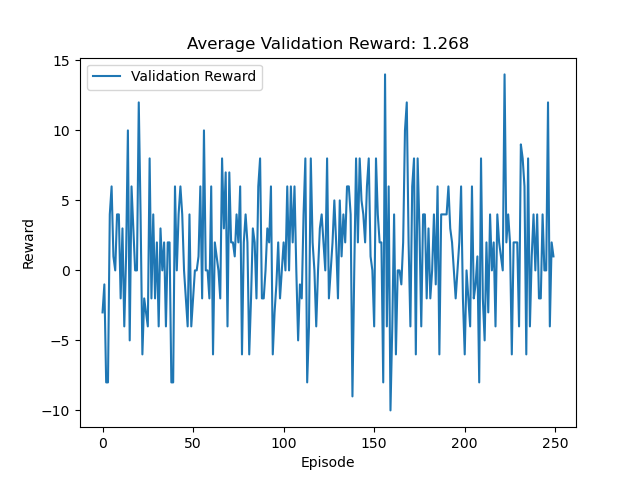
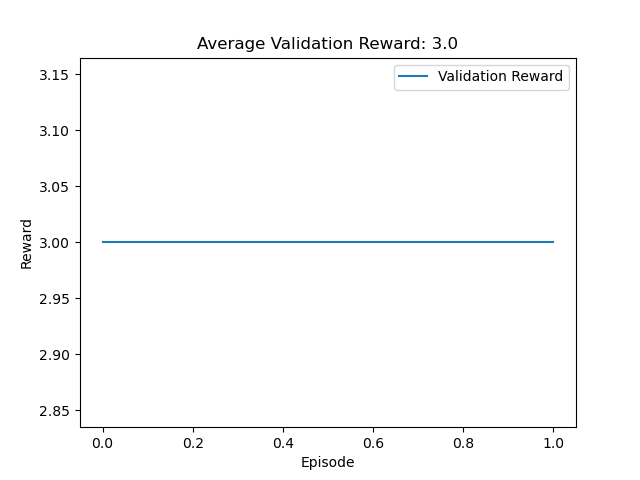
implemented cnn_lstm for deep q model

diff --git a/cnn_lstm_deep_q.py b/cnn_lstm_deep_q.py
@@ -53,7 +53,6 @@ DATA_ROOT = './data/hourly/'
 VALIDATION_SPLIT = .2
 VALIDATION_EPISODES = 2
 
-
 class environment:
 
 
@@ -106,13 +105,15 @@ class environment:
         #reward nothing if price doesn't change
         reward = 0
 
-        price_change_percent = self.current_label
-        print(self.current_label)
+        price_change_percent = self.current_label[-1]
+
         #our reward function: (close - open)/open (this is handled implicitly in the label
 
         #reward buying before price increases
         #Punish when buying before price decreases
         # TODO Current assumption: 0 sell, 1 buy, 2 do nothing
+        #print("Action: ",action)
+        #print("price:",price_change_percent)
         if price_change_percent > 0 and action == 1:
             reward = 1
         if price_change_percent < 0 and action == 1:
@@ -131,17 +132,17 @@ class environment:
 
         done = 0
 
-        #make sure to accomodate bounds of the sequence
-        if(self.cur_time_step+self.sequence_length == self.max_steps):
+        # make sure to accomodate bounds of the sequence
+        if (self.cur_time_step + self.sequence_length == self.max_steps - 1):
             done = 1
 
-        #update to the next time_step
+        # update to the next time_step
         self.cur_time_step += 1
-        #update state information
+        # update state information
         self.state, self.current_label = self.get_state()
 
-        #Stop training at the end of the episode
-        if(self.cur_time_step == (self.offset_start+self.steps_per_ep)):
+        # Stop training at the end of the episode
+        if (self.cur_time_step == (self.offset_start + self.steps_per_ep)):
             done = 1
 
 
@@ -193,7 +194,6 @@ Transition = namedtuple('Transition',
 # https://github.com/pranoyr/cnn-lstm and https://github.com/pranoyr/cnn-lstm/blob/master/models/cnnlstm.py
 
 
-
 class Ensemble(nn.Module):
     #combine all the CNN approximators and NN models
     def __init__(self, cnn1, cnn2, cnn3, cnn4, cnn5, num_classes):
@@ -211,16 +211,16 @@ class Ensemble(nn.Module):
         self.cnn4.train()
         self.cnn5.train()
 
-        self.lstm = nn.LSTM(cnn1.fc.out_features*5, hidden_size=256, num_layers=3)
-        self.fc1 = nn.Linear(256, 128)
-        self.fc2 = nn.Linear(128, num_classes)
+        self.lstm = nn.LSTM(cnn1.fc.out_features*5, hidden_size=256, num_layers=3).to(device)
+        self.fc1 = nn.Linear(256, 128).to(device)
+        self.fc2 = nn.Linear(128, num_classes).to(device)
 
     def forward(self, sequence):
         #this condition handles a batch of states versus a single state containing 5 images
         hidden = None
         for t in range(sequence.size(1)):
             xlist = sequence[:,t,:,:,:,:]#list of 3-dim images at given time step t
-            print(xlist.shape)
+
             x1 = xlist[:,0].to(device)
             x2 = xlist[:,1].to(device)
             x3 = xlist[:,2].to(device)
@@ -235,14 +235,13 @@ class Ensemble(nn.Module):
 
             x = torch.cat((x1,x2,x3,x4,x5),dim=1)
 
-            print(x.shape)
             out, hidden = self.lstm(x.unsqueeze(0), hidden)
 
         x = self.fc1(out[-1, :, :])
         x = F.relu(x)
         x = self.fc2(x)
+        #NOTE because we are using CrossEntropyLoss, we should NOT use softmax here, as it is applied in the loss function
         return x
-
 
 def load_model(encoding_dim,model_path=None):
     model = models.resnet18(pretrained=True)
@@ -296,6 +295,7 @@ policy_net = Ensemble(cnn1, cnn2, cnn3, cnn4, cnn5,num_classes=n_actions).to(dev
 target_net = Ensemble(cnn1, cnn2, cnn3, cnn4, cnn5,num_classes=n_actions).to(device)
 target_net.load_state_dict(policy_net.state_dict())
 target_net.eval()
+
 
 optimizer = optim.RMSprop(policy_net.parameters())
 memory = ReplayMemory(REPLAY_MEMORY)
@@ -382,7 +382,7 @@ def optimize_model():
     # columns of actions taken. These are the actions which would've been taken
     # for each batch state according to policy_net
 
-    state_action_values = policy_net(state_batch).gather(1, action_batch)
+    state_action_values = policy_net(state_batch.squeeze()).gather(1, action_batch)
 
     # Compute V(s_{t+1}) for all next states.
     # Expected values of actions for non_final_next_states are computed based
@@ -390,7 +390,8 @@ def optimize_model():
     # This is merged based on the mask, such that we'll have either the expected
     # state value or 0 in case the state was final.
     next_state_values = torch.zeros(BATCH_SIZE, device=device)
-    next_state_values[non_final_mask] = target_net(non_final_next_states).max(1)[0].detach()
+
+    next_state_values[non_final_mask] = target_net(non_final_next_states.squeeze()).max(1)[0].detach()
 
 
     # Compute the expected Q values

diff --git a/cnn_lstm.py b/cnn_lstm.py
@@ -24,7 +24,7 @@ from torchvision import models
 device = torch.device("cuda" if torch.cuda.is_available() else "cpu")
 
 SEQUENCE_LENGTH = 24
-ENCODING_DIM = 16 #dimension of the encoding layer from each CNN
+ENCODING_DIM = 8 #dimension of the encoding layer from each CNN
 REPLAY_MEMORY = 64
 BATCH_SIZE = 4
 GAMMA = 0.5 # discount factor
@@ -32,11 +32,11 @@ EPS_START = 0.3
 EPS_END = 0.05
 EPS_DECAY = 200
 TARGET_UPDATE = 25
-NUM_EPISODES = 500
-STEPS_PER_EP = 48
+NUM_EPISODES = 10
+STEPS_PER_EP = 3000
 DATA_ROOT = './data/hourly/'
 VALIDATION_SPLIT = .2
-VALIDATION_EPISODES = 200
+VALIDATION_EPISODES = 5
 
 
 class environment:
@@ -261,7 +261,7 @@ for i_episode in range(NUM_EPISODES):
     state = env.state
     next_state = env.state
 
-    print(policy_net(state))
+    #print(policy_net(state))
 
     print("Training for ", STEPS_PER_EP, " steps.")
     #loop until the environment indicates the end of an episode
@@ -345,8 +345,10 @@ save_model(target_net,'cnn_lstm')
 '''#################### Now evaluate the model ######################'''
 '''##################################################################'''
 
+
+
 episode_accuracy = []
-target_net.load_state_dict(policy_net.state_dict())
+#target_net.load_state_dict(policy_net.state_dict())
 target_net.eval()
 
 print("##### Starting Validation ######")
